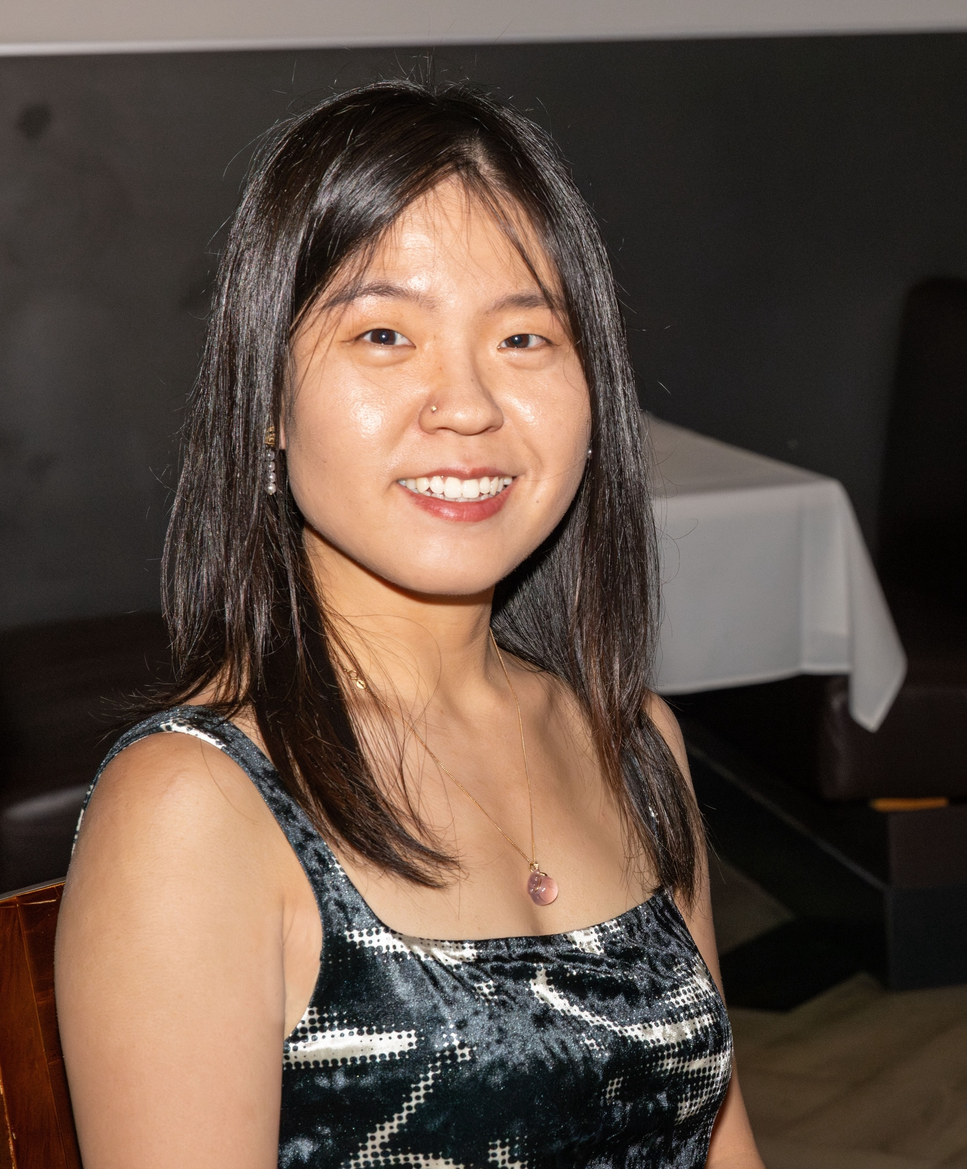
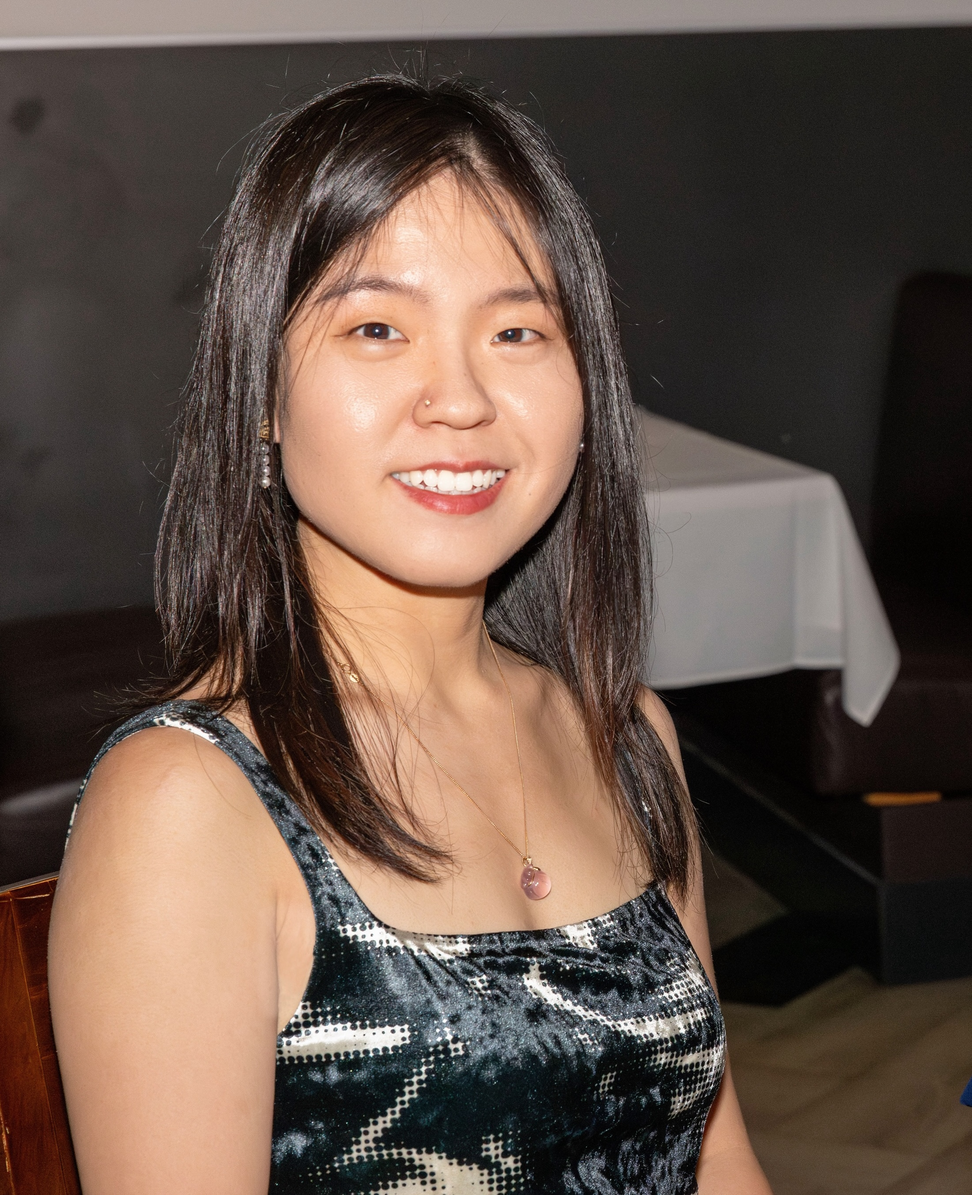
update

diff --git a/talk/sc_st_data_analysis_r/index.html b/talk/sc_st_data_analysis_r/index.html
@@ -760,7 +760,7 @@
   <div class="media author-card content-widget-hr">
     
       
-      <img class="avatar mr-3 avatar-circle" src="/authors/admin/avatar_hudb2314a39f5777502662d4b506d59715_2203496_270x270_fill_q90_lanczos_center.JPG" alt="Yutong Wang (王雨桐)">
+      <img class="avatar mr-3 avatar-circle" src="/authors/admin/avatar_hudb2314a39f5777502662d4b506d59715_2518310_270x270_fill_q90_lanczos_center.JPG" alt="Yutong Wang (王雨桐)">
     
 
     <div class="media-body">

diff --git a/teaching/courses/ph292/index.html b/teaching/courses/ph292/index.html
@@ -640,7 +640,7 @@
   <div class="media author-card content-widget-hr">
     
       
-      <img class="avatar mr-3 avatar-circle" src="/authors/admin/avatar_hudb2314a39f5777502662d4b506d59715_2203496_270x270_fill_q90_lanczos_center.JPG" alt="Yutong Wang (王雨桐)">
+      <img class="avatar mr-3 avatar-circle" src="/authors/admin/avatar_hudb2314a39f5777502662d4b506d59715_2518310_270x270_fill_q90_lanczos_center.JPG" alt="Yutong Wang (王雨桐)">
     
 
     <div class="media-body">

diff --git a/teaching/courses/python_bootcamp/index.html b/teaching/courses/python_bootcamp/index.html
@@ -618,7 +618,7 @@
   <div class="media author-card content-widget-hr">
     
       
-      <img class="avatar mr-3 avatar-circle" src="/authors/admin/avatar_hudb2314a39f5777502662d4b506d59715_2203496_270x270_fill_q90_lanczos_center.JPG" alt="Yutong Wang (王雨桐)">
+      <img class="avatar mr-3 avatar-circle" src="/authors/admin/avatar_hudb2314a39f5777502662d4b506d59715_2518310_270x270_fill_q90_lanczos_center.JPG" alt="Yutong Wang (王雨桐)">
     
 
     <div class="media-body">

diff --git a/teaching/index_/index.html b/teaching/index_/index.html
@@ -611,7 +611,7 @@
   <div class="media author-card content-widget-hr">
     
       
-      <img class="avatar mr-3 avatar-circle" src="/authors/admin/avatar_hudb2314a39f5777502662d4b506d59715_2203496_270x270_fill_q90_lanczos_center.JPG" alt="Yutong Wang (王雨桐)">
+      <img class="avatar mr-3 avatar-circle" src="/authors/admin/avatar_hudb2314a39f5777502662d4b506d59715_2518310_270x270_fill_q90_lanczos_center.JPG" alt="Yutong Wang (王雨桐)">
     
 
     <div class="media-body">

diff --git a/authors/admin/index.html b/authors/admin/index.html
@@ -524,7 +524,7 @@
 
       
       
-      <img class="avatar avatar-circle" src="/authors/admin/avatar_hudb2314a39f5777502662d4b506d59715_2203496_270x270_fill_q90_lanczos_center.JPG" alt="Yutong Wang (王雨桐)">
+      <img class="avatar avatar-circle" src="/authors/admin/avatar_hudb2314a39f5777502662d4b506d59715_2518310_270x270_fill_q90_lanczos_center.JPG" alt="Yutong Wang (王雨桐)">
       
 
       <div class="portrait-title">

diff --git a/index.html b/index.html
@@ -586,7 +586,7 @@
 
       
       
-      <img class="avatar avatar-circle" src="/authors/admin/avatar_hudb2314a39f5777502662d4b506d59715_2203496_270x270_fill_q90_lanczos_center.JPG" alt="Yutong Wang (王雨桐)">
+      <img class="avatar avatar-circle" src="/authors/admin/avatar_hudb2314a39f5777502662d4b506d59715_2518310_270x270_fill_q90_lanczos_center.JPG" alt="Yutong Wang (王雨桐)">
       
 
       <div class="portrait-title">
